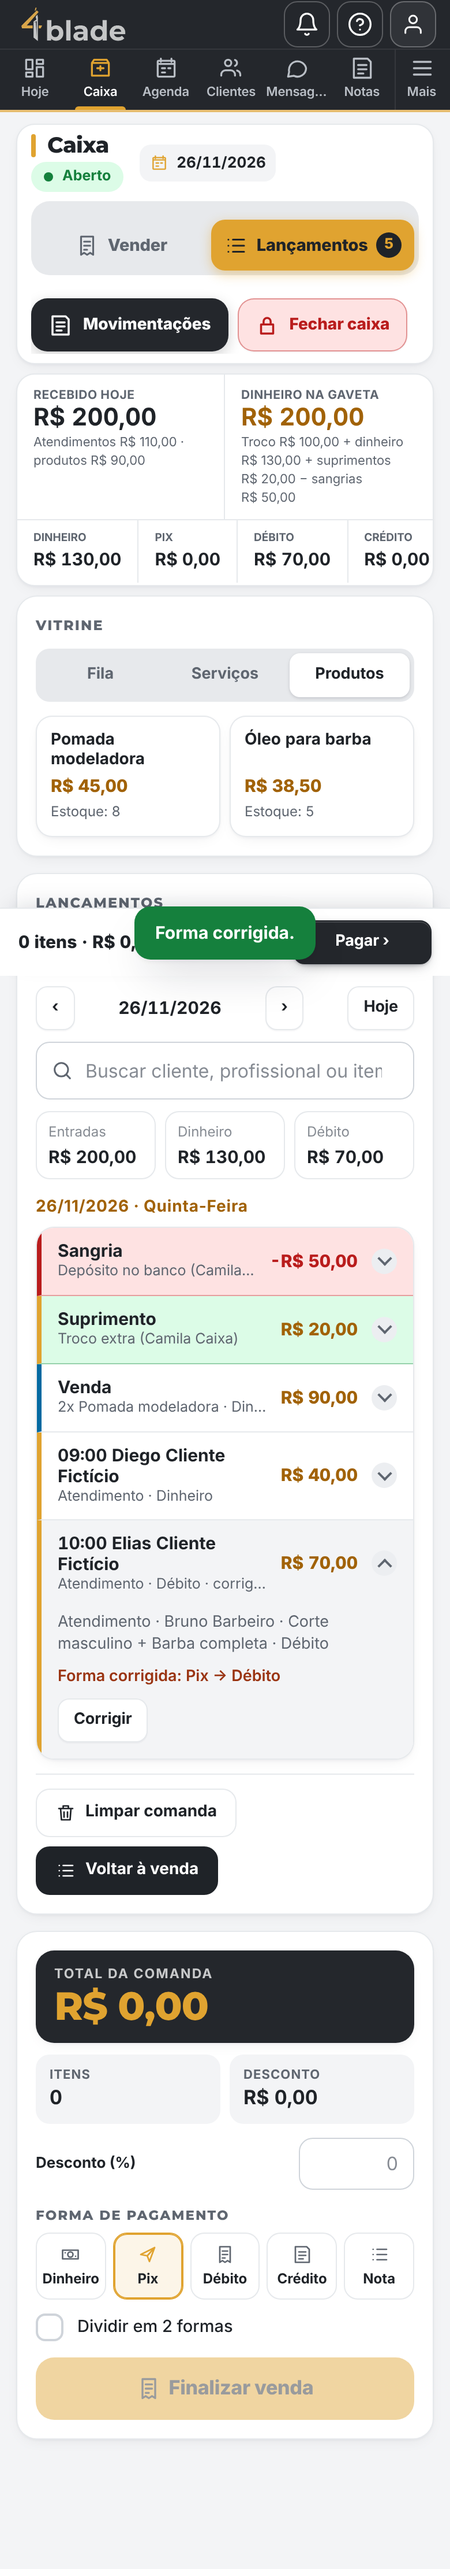
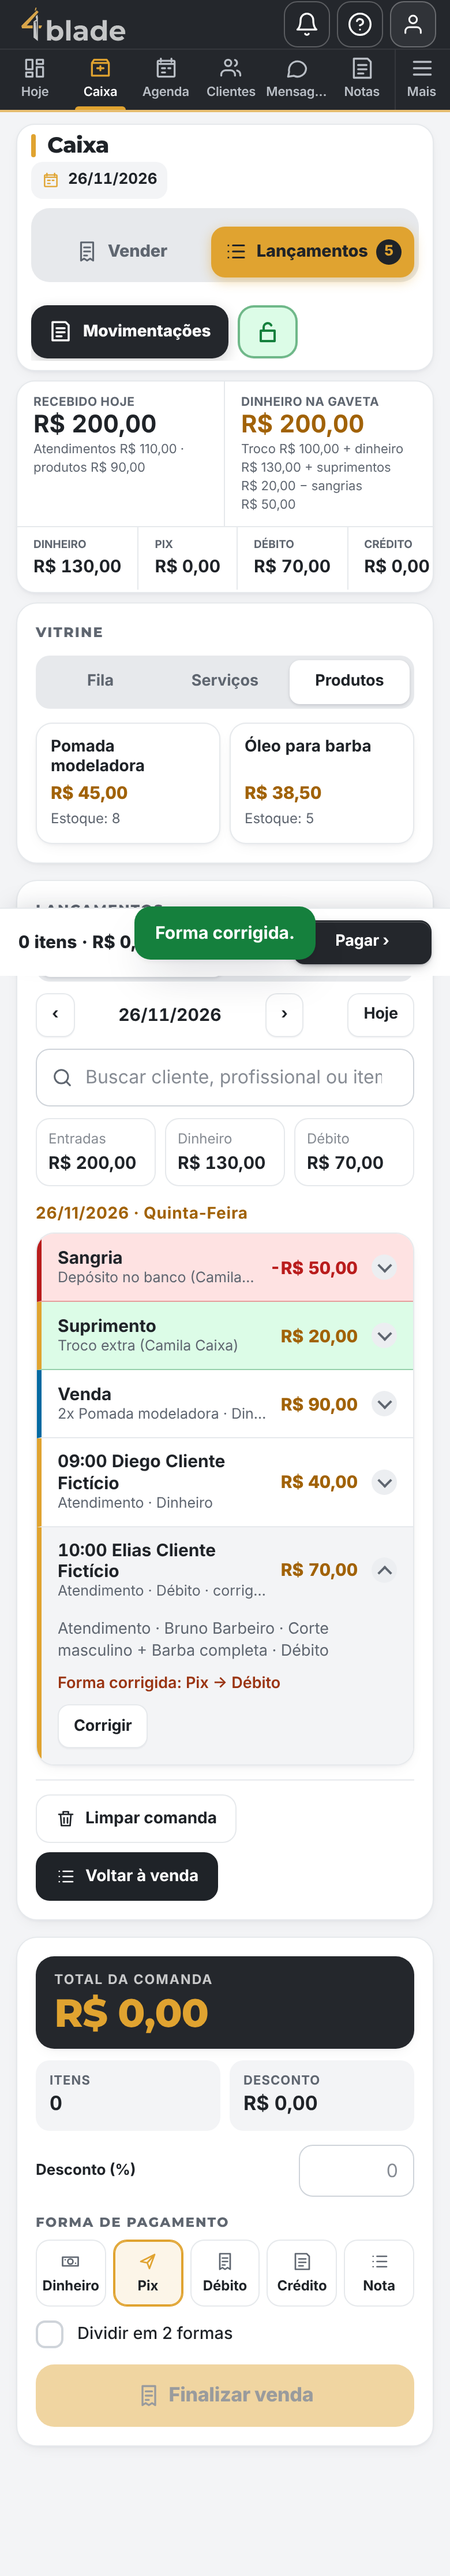
Caixa: cadeado verde/vermelho com data no topo e painéis da mesma altura
Claude-Session: https://claude.ai/code/session_01R9hMmP8YX9EsdpaJW4w2cf

diff --git a/public/app.js b/public/app.js
@@ -3410,6 +3410,47 @@ function janelaCorrigirLancamento(l, recarregar) {
   ], { ok: "Fechar", semCancelar: true, aoConfirmar: () => true });
 }
 
+// Cadeado do caixa (27/11/2026): mostra a situação e a ação certa — fechar (aberto), reabrir (fechado, só gerente) ou abrir (ainda não aberto).
+function janelaCaixaSituacao(c, recarregar, reabrir) {
+  const sit = c.caixa.situacao;
+  const quando = iso => (iso ? ` às ${horaLocal(iso)}` : "");
+  const f = c.fechamento;
+  const aberto = sit === "aberto", fechado = sit === "fechado";
+  const faixa = el("div", { class: `caixa-faixa caixa-faixa-${aberto ? "aberto" : "fechado"}`, "data-teste": "caixa-faixa" },
+    el("span", { class: "mov-icone", "aria-hidden": "true" }, icone(aberto ? "cadeadoAberto" : "cadeado")),
+    el("div", {}, el("strong", { text: aberto ? "Caixa aberto" : fechado ? "Caixa fechado" : "Caixa ainda não aberto" }),
+      el("small", { text: aberto ? `Aberto por ${c.caixa.abertoPor}${quando(c.caixa.abertoEm)} · troco ${reais(c.caixa.trocoCentavos)}`
+        : fechado ? `Fechado${f?.fechadoPor ? ` por ${f.fechadoPor}` : ""}${quando(f?.fechadoEm)}` : "O primeiro lançamento do dia abre o caixa sozinho, com troco R$ 0,00." })));
+  const acao = (classe, icone_, titulo, dica, fn, extra = {}) => el("button", { type: "button", class: `mov-cartao ${classe}`, ...extra, onclick: fn },
+    el("span", { class: "mov-icone", "aria-hidden": "true" }, icone(icone_)), el("strong", { class: "mov-titulo", text: titulo }), el("span", { class: "mov-dica", text: dica }));
+  const proximo = fn => () => { janela.close(); setTimeout(fn); };
+  const corpo = [faixa];
+  if (aberto) corpo.push(acao("mov-sangria", "cadeado", "Fechar caixa", "Conferir o dinheiro e encerrar o dia", proximo(() => janelaFechar(c, recarregar)), { "data-caixa-acao": "fechar" }));
+  else if (fechado) {
+    corpo.push(gestao()
+      ? acao("mov-suprimento", "cadeadoAberto", "Reabrir caixa", "Volta a abrir para uma nova contagem", proximo(reabrir), { "data-caixa-acao": "reabrir" })
+      : el("p", { class: "suave centro", text: "Só o gerente reabre o caixa. Você continua podendo lançar e corrigir normalmente." }));
+  } else {
+    corpo.push(acao("mov-suprimento", "cadeadoAberto", "Abrir caixa", "Informar o troco da gaveta e começar o dia", proximo(() => janelaAbrirCaixa(recarregar)), { "data-caixa-acao": "abrir" }));
+  }
+  return abrirJanela("Caixa do dia", corpo, { ok: "Fechar", semCancelar: true, aoConfirmar: () => true });
+}
+
+function janelaAbrirCaixa(recarregar) {
+  return abrirJanela("Abrir o caixa", [
+    el("p", { class: "suave", text: "Quanto de troco tem na gaveta? (Se não informar, o caixa abre sozinho no primeiro lançamento, com troco R$ 0,00.)" }),
+    campo("Troco na gaveta (R$)", { name: "troco", inputmode: "decimal", required: true, placeholder: "100,00" })
+  ], {
+    ok: "Abrir caixa",
+    aoConfirmar: async f => {
+      const troco = paraCentavos(f.troco.value);
+      if (troco === null) throw new Error("Valor do troco inválido. Exemplo: 100,00");
+      await api("/caixa/abrir", { metodo: "POST", corpo: { trocoCentavos: troco } });
+      avisar("Caixa aberto."); recarregar();
+    }
+  });
+}
+
 // Sangria e suprimento num botão só (27/11/2026): dois cartões grandes e coloridos — vermelho (sai dinheiro) e verde (entra dinheiro).
 function janelaMovimentacoes(recarregar, naGavetaCentavos = null) {
   const abrir = tipo => { janela.close(); setTimeout(() => janelaMovimento(tipo, recarregar)); };
@@ -3592,12 +3633,11 @@ async function telaCaixa(dataHistorico = null) {
   // Caixa de hoje: frente de caixa sempre disponível (aberto, fechado ou ainda não aberto).
   const frente = await frenteCaixa(c, recarregar);
   const sit = c.caixa.situacao;
-  const situacao = el("div", { class: `pdv-situacao sit-${sit}`, "data-teste": "situacao-caixa" },
-    el("span", { class: "sit-ponto", "aria-hidden": "true" }),
-    el("span", { class: "sit-txt" },
-      sit === "aberto" ? [el("span", { class: "sit-nome", text: "Caixa " }), "aberto", el("span", { class: "sit-por", text: ` · por ${c.caixa.abertoPor}` })]
-        : sit === "fechado" ? [el("span", { class: "sit-nome", text: "Caixa " }), "fechado", el("span", { class: "sit-por", text: ` · aberto por ${c.caixa.abertoPor}` })]
-        : [el("span", { class: "sit-nome", text: "Caixa " }), "ainda não aberto"]));
+  // Cadeado (27/11/2026): vermelho = fechado (ou ainda não aberto); verde = aberto. Tocar abre a janela de abrir/fechar.
+  const cadeado = el("button", { type: "button", class: `botao ferramenta cadeado-caixa cadeado-${sit}`, "data-teste": "situacao-caixa", "data-situacao": sit,
+    "aria-label": sit === "aberto" ? "Caixa aberto. Toque para fechar." : sit === "fechado" ? "Caixa fechado. Toque para ver." : "Caixa ainda não aberto. Toque para abrir.",
+    title: sit === "aberto" ? "Caixa aberto" : sit === "fechado" ? "Caixa fechado" : "Caixa ainda não aberto",
+    onclick: () => janelaCaixaSituacao(c, recarregar, reabrir) }, icone(sit === "aberto" ? "cadeadoAberto" : "cadeado"));
   const aviso = sit === "fechado"
     ? el("details", { class: "cartao aviso-fechado", "data-teste": "aviso-gerente-caixa" },
       el("summary", { text: "O caixa de hoje já foi fechado. Pode continuar lançando: entra no caixa de hoje, depois do fechamento." }),
@@ -3626,12 +3666,11 @@ async function telaCaixa(dataHistorico = null) {
     // (sangria e suprimento juntos), Fechar caixa e Outros dias.
     el("header", { class: "fc-topo" },
       el("div", { class: "fc-topo-titulo" },
-        el("div", { class: "fc-titulo-col" }, el("h2", { text: "Caixa" }), situacao),
-        etiquetaData(dataBR(c.data)),
+        el("div", { class: "fc-titulo-col" }, el("h2", { text: "Caixa" }), etiquetaData(dataBR(c.data))),
         abasTopo),
       el("section", { class: "pdv-ferramentas", "aria-label": "Ações do caixa" },
         el("button", { type: "button", class: "botao ferramenta destaque-mov", "data-teste": "movimentacoes", onclick: () => janelaMovimentacoes(recarregar, t.dinheiroEsperadoCentavos) }, icone("contas"), el("span", { text: "Movimentações" })),
-        aberto ? el("button", { type: "button", class: "botao ferramenta perigo", onclick: () => janelaFechar(c, recarregar, dataHistorico) }, icone("cadeado"), el("span", { text: "Fechar caixa" })) : null,
+        cadeado,
         gestao() ? el("a", { class: "botao ferramenta", href: "#/caixa-historico" }, icone("lista"), el("span", { text: "Outros dias" })) : null)),
     el("div", { class: "fc-resumo" }, ...topo),
     c.reaberturas?.length ? el("p", { class: "suave", text: `Reaberto ${c.reaberturas.length}x (último motivo: ${c.reaberturas[0].motivo})` }) : null,
@@ -6743,6 +6782,7 @@ const ICONES = {
   setaBaixo: "M12 4v14M6 12l6 6 6-6",
   setaCima: "M12 20V6M6 12l6-6 6 6",
   cadeado: "M6 11h12v9H6zM8.5 11V8a3.5 3.5 0 0 1 7 0v3",
+  cadeadoAberto: "M6 11h12v9H6zM8.5 11V8a3.5 3.5 0 0 1 6.6-1.6",
   sino: "M6 8a6 6 0 0 1 12 0c0 7 3 9 3 9H3s3-2 3-9M10.3 21a1.9 1.9 0 0 0 3.4 0",
   lixeira: "M4 7h16M9 7V4h6v3M6 7l1 13h10l1-13M10 11v6M14 11v6",
   estoque: "M21 8l-9-5-9 5 9 5 9-5zM3 8v8l9 5 9-5V8M12 13v8",

diff --git a/public/style.css b/public/style.css
@@ -2610,3 +2610,28 @@ main:has(.fc) { padding-top: 12px; }
   .fc-topo .pdv-ferramentas .botao.ferramenta span { display: inline !important; }
   .fc-topo .abas-topo .botao .icone { display: inline-block; }
 }
+
+/* CADEADO DO CAIXA (27/11/2026): vermelho = fechado / ainda não aberto; verde = aberto */
+.fc-topo .pdv-ferramentas .botao.ferramenta.cadeado-caixa { min-width: 52px; padding: 0; justify-content: center; border-width: 2px; border-style: solid; }
+.fc-topo .pdv-ferramentas .botao.ferramenta.cadeado-caixa .icone { width: 24px; height: 24px; }
+.fc-topo .pdv-ferramentas .botao.ferramenta.cadeado-aberto { background: var(--ok-fundo); color: var(--ok); border-color: color-mix(in srgb, var(--ok) 55%, transparent); }
+.fc-topo .pdv-ferramentas .botao.ferramenta.cadeado-fechado, .fc-topo .pdv-ferramentas .botao.ferramenta.cadeado-nao_aberto { background: var(--erro-fundo); color: var(--erro); border-color: color-mix(in srgb, var(--erro) 55%, transparent); }
+.fc-titulo-col .cab-chip { justify-self: start; }
+.caixa-faixa { display: flex; align-items: center; gap: 14px; padding: 14px 16px; border-radius: 18px; margin-bottom: 10px; }
+.caixa-faixa strong { display: block; font-size: 18px; font-family: "Marca", system-ui, sans-serif; font-weight: 800; }
+.caixa-faixa small { display: block; font-size: 13px; opacity: .85; margin-top: 2px; }
+.caixa-faixa .mov-icone { width: 52px; height: 52px; margin: 0; flex: none; }
+.caixa-faixa .mov-icone .icone { width: 26px; height: 26px; }
+.caixa-faixa-aberto { background: var(--ok-fundo); color: var(--ok); }
+.caixa-faixa-aberto .mov-icone { background: var(--ok); color: #fff; }
+.caixa-faixa-fechado { background: var(--erro-fundo); color: var(--erro); }
+.caixa-faixa-fechado .mov-icone { background: var(--erro); color: #fff; }
+dialog .mov-cartao[data-caixa-acao] { width: 100%; }
+
+/* FRENTE DE CAIXA: três painéis da mesma altura; ações da comanda sempre visíveis */
+@media (min-width: 1100px) {
+  .fc { align-items: stretch; }
+  .fc-vitrine, .fc-comanda, .fc-pagar { height: calc(100vh - 262px); min-height: 440px; overflow-y: auto; box-sizing: border-box; }
+  .fc-pagar { position: static; }
+  .fc-comanda .fc-acoes { position: sticky; bottom: -16px; background: var(--cartao); margin-bottom: -16px; padding-bottom: 14px; z-index: 2; }
+}

diff --git a/public/sw.js b/public/sw.js
@@ -3,7 +3,7 @@
  * Guarda SOMENTE os arquivos da tela (para abrir sem internet).
  * NUNCA guarda nada de /api/ (dados e login sempre vão direto ao servidor).
  */
-const CACHE = "4blade-v107";
+const CACHE = "4blade-v109";
 
 const ARQUIVOS = [
   "/",

diff --git a/CLAUDE.md b/CLAUDE.md
@@ -336,3 +336,4 @@ App de gestão para barbearias, vendido por assinatura para várias barbearias (
   - 27/11/2026 (pedido do responsável: organizar o topo do Caixa, botões mais bonitos e troca Vender/Lançamentos lenta): **topo do caixa reorganizado.** Sem migração; servidor intacto. `header.fc-topo`: à esquerda "Caixa" com a situação ("Caixa aberto · por …") **logo abaixo** (`.fc-titulo-col`), a data e as abas **Vender | Lançamentos** (`.abas-topo`, `[data-aba-caixa]`, bolinha com o total do dia) ao lado; à direita **Movimentações** (`[data-teste=movimentacoes]`, sangria e suprimento juntos), Fechar caixa e Outros dias. A faixa de abas separada saiu; espaços reduzidos. **Movimentações** abre `janelaMovimentacoes(recarregar, naGavetaCentavos)`: mostra o dinheiro na gaveta e dois cartões grandes — **Sangria** (vermelho, seta ↓) e **Suprimento** (verde, seta ↑) (`[data-mov=sangria|suprimento]`) — que abrem a janela de sempre. Botões maiores e com cores diferentes: abas ativas douradas, Movimentações escuro, Fechar caixa vermelho claro, Outros dias contornado. **Lentidão corrigida:** trocar de aba chamava `recarregar()` (refazia `/caixa/hoje`, atendimentos, produtos, serviços e a montagem); agora `frenteCaixa` tem `trocarVisao(k)` e os dois painéis (`.fc-pane`) ficam na tela, um escondido; os lançamentos são buscados ao abrir (só essa lista) e atualizam a bolinha (`aoContar`). Testes: `test/navegador-e3.mjs` (assevera que trocar para Vender não faz nenhum pedido ao servidor do caixa; print `*-caixa-movimentacoes`), helper `movimentacao(page, tipo)` em `test/navegacao.mjs`, `lancamentos()` agora usa `:visible`; navegador-equipe ajustado (mensagem do lote: "já tem …"). `npm test` (209). Cache do sw `4blade-v106`. NÃO publicado ainda.
   - **Publicado em 27/11/2026 (autorizado, sem migração): versão 32c1a113** (topo do caixa reorganizado, Movimentações em cartões, troca de abas instantânea). Conferido no forblade.com.br: sw `4blade-v106`, app.js com `janelaMovimentacoes`/`trocarVisao`, style.css com `mov-cartao`.
   - 27/11/2026 (2ª rodada, relato do responsável: no computador dele os botões caíam para uma 2ª linha): **topo do caixa SEMPRE numa linha só no computador.** Sem migração. `.fc-topo` virou `container-type: inline-size` e `flex-wrap: nowrap`; em janelas mais estreitas os botões encolhem por container query (≤1240 px: menores; ≤1060 px: Fechar caixa/Outros dias só com o ícone; ≤860 px: Movimentações e abas só texto/ícone); abaixo de 700 px (celular) volta a quebrar em linhas. Causa provável do relato: tela com zoom/escala do Windows (viewport de ~1100 px css). Teste: `test/navegador-e3.mjs` mede 1366/1180/1100/960 px (centros dos blocos alinhados, altura do topo < 110 px, sem vazar; print `*-caixa-topo-1100px`). `npm test` (209). Cache do sw `4blade-v107`. NÃO publicado ainda.
+  - 27/11/2026 (3ª rodada, pedido do responsável): **cadeado no topo do caixa + painéis da mesma altura.** Sem migração; servidor intacto. Saiu a faixa "Caixa aberto · por …": no lugar, a data do dia sob o título. O cadeado (`[data-teste=situacao-caixa]`, `data-situacao`) fica **verde (aberto)** ou **vermelho (fechado/não aberto)** e abre `janelaCaixaSituacao` (faixa `[data-teste=caixa-faixa]` com quem abriu/fechou e o troco; cartões `[data-caixa-acao=fechar|reabrir|abrir]`; só a gestão reabre) e `janelaAbrirCaixa`. Frente de caixa (≥1100 px): Vitrine, Comanda e Total/Pagamento com a MESMA altura (`calc(100vh - 262px)`), barra de ações da comanda (`.fc-acoes`) fixa embaixo. Testes: `test/navegador-e3.mjs` (prints `caixa-cadeado-aberto|fechado`, `caixa-topo-1100px`) e `test/gerar-tutoriais.mjs`. `npm test` (209). Cache do sw `4blade-v109`. NÃO publicado ainda (v107–v109; última publicada = 32c1a113, sw v106).
